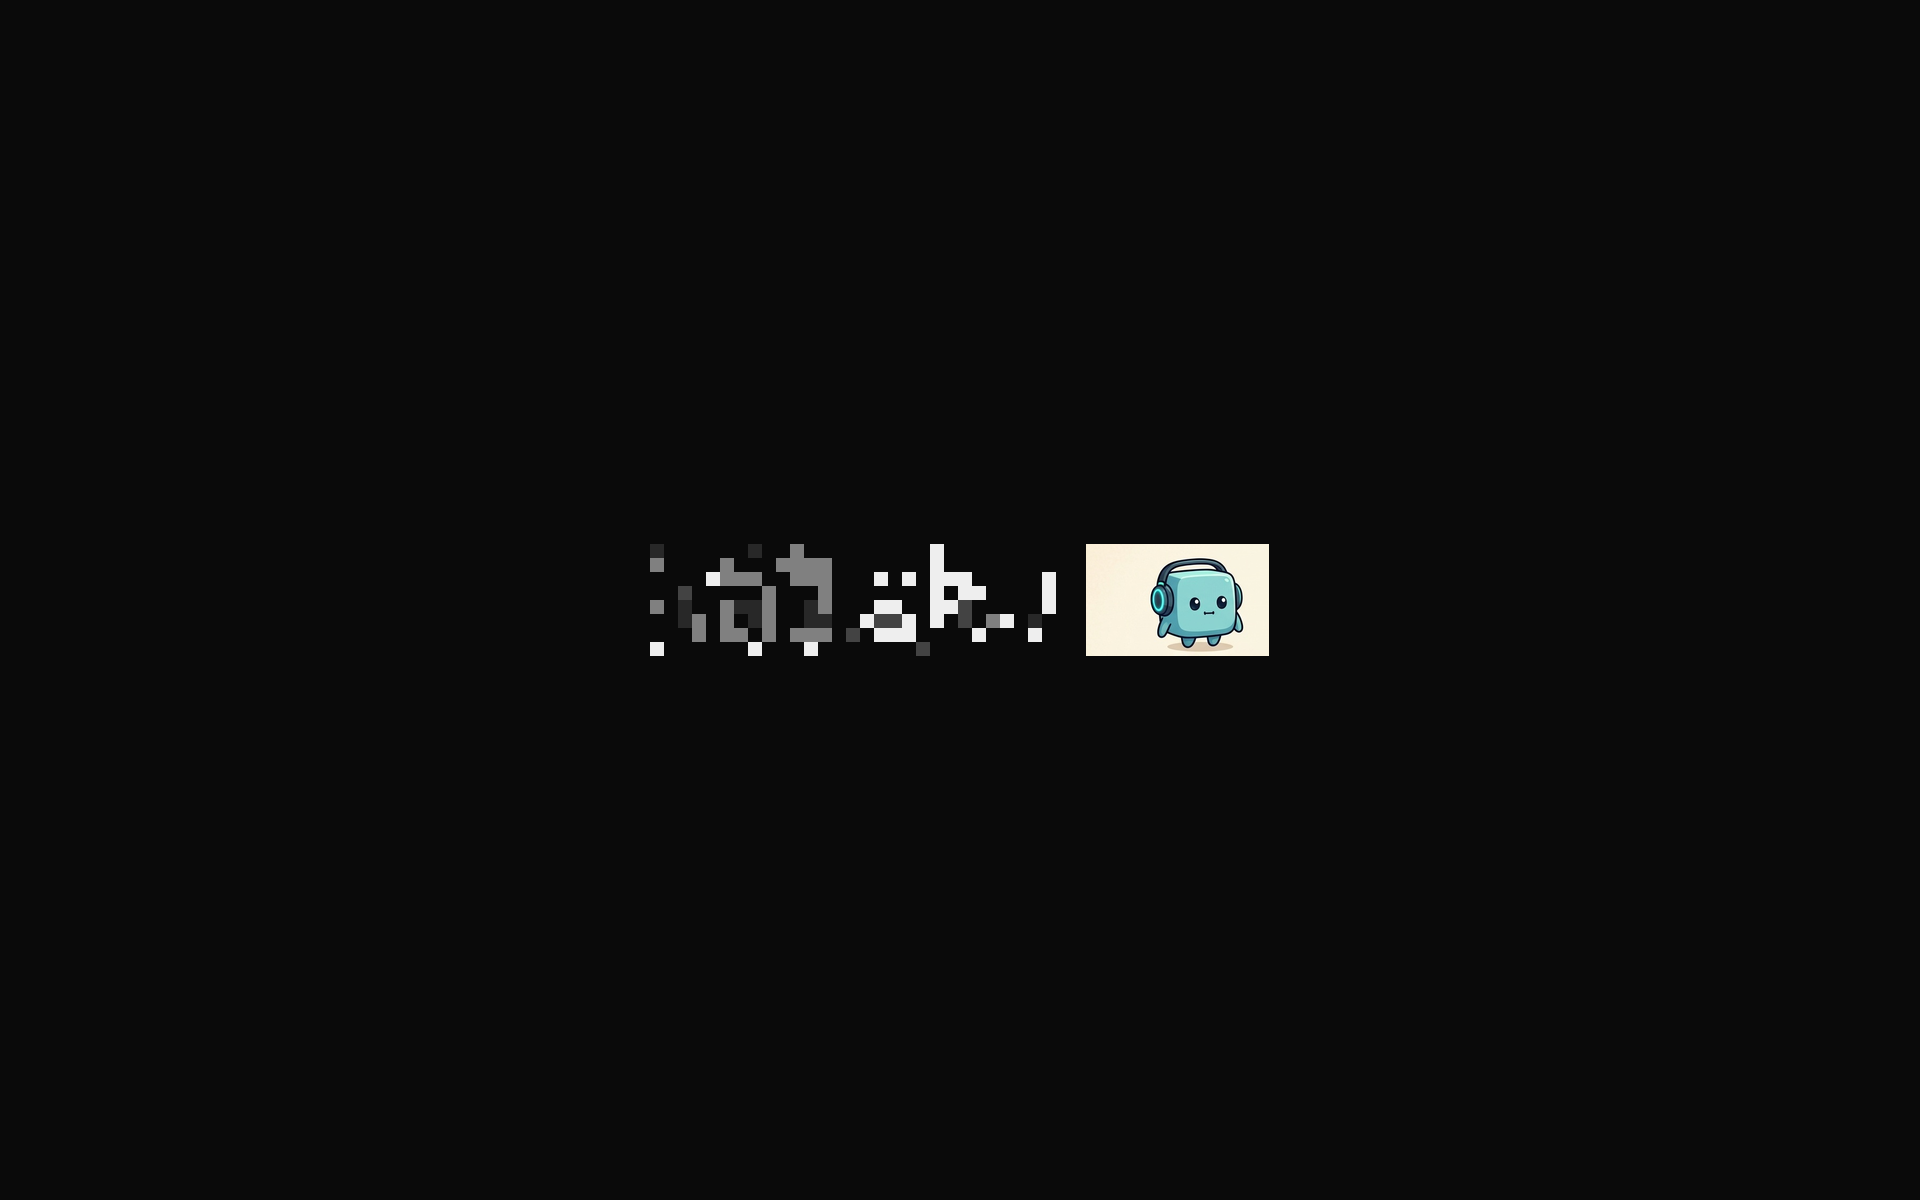
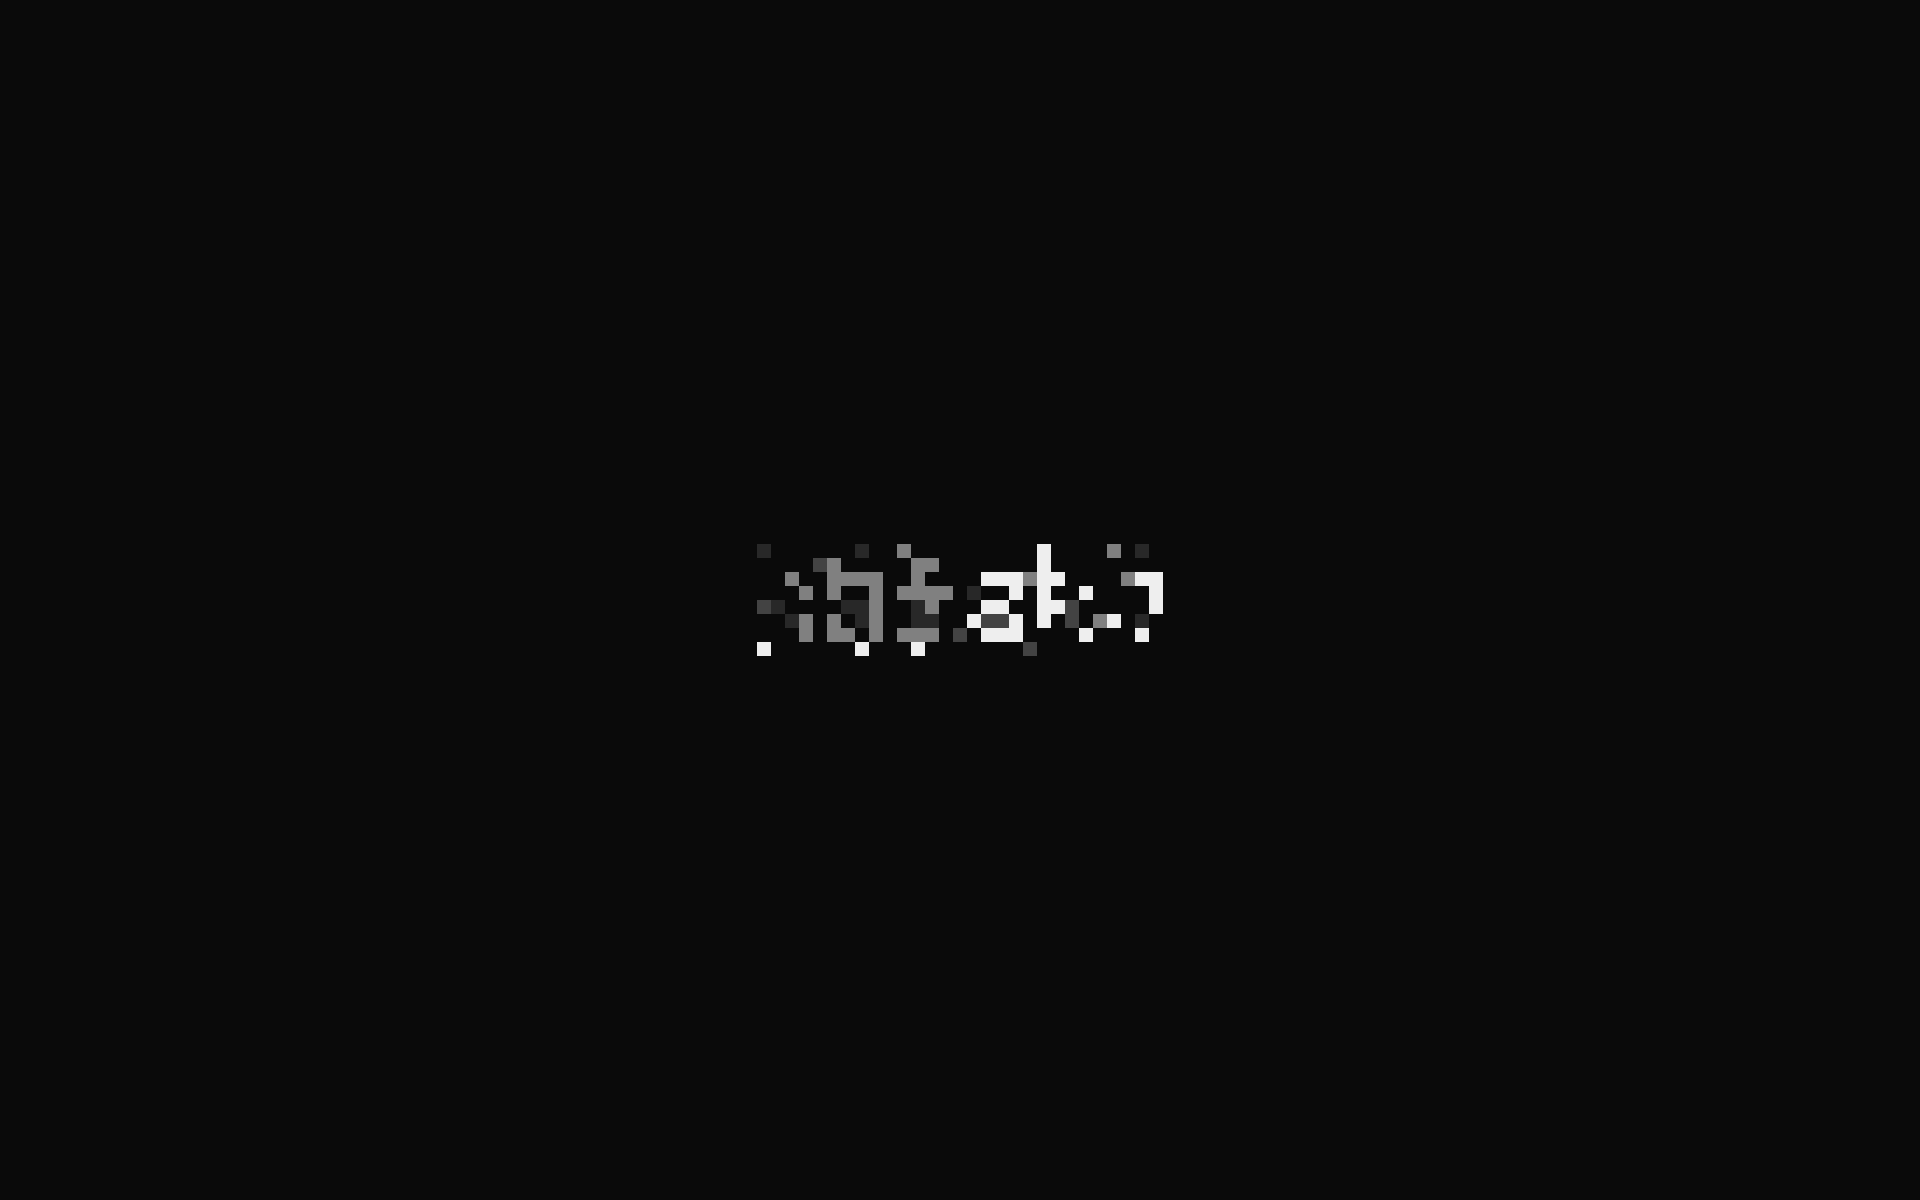
Show ONLY pixels during pixelating morph: no character during animation, designated cartoons only before and after

Changed region(s): [[0.3438, 0.4317, 0.6875, 0.555]]

diff --git a/core/pixel_morph.py b/core/pixel_morph.py
@@ -2,6 +2,12 @@
 Pixel Morph & Dissolve Engine
 Generates smooth retro pixel-dissolve / glitch transition frames between two names
 (e.g., 'hiak' <-> 'harsha') paired with reactive mascot emotion states.
+
+STRICT MASCOT DISPLAY RULE:
+- BEFORE hover: Shows HIAK with designated Orange Brick Mascot
+- WHILE PIXELATING / ANIMATING: Shows ONLY the glitching/dissolving PIXELS! NO CARTOON MASCOT AT ALL!
+- AFTER hover: Shows HARSHA with designated Option 4 Floating Cyber-Bot
+- WHILE RETURNING: Shows ONLY the glitching/dissolving PIXELS! NO CARTOON MASCOT AT ALL!
 """
 import random
 import sys
@@ -15,26 +21,34 @@ sys.path.insert(0, str(STUDIO_ROOT))
 from core.opencode_font import render_opencode_image, build_text_grid, BG, GRAY, GRAY_SHADOW, WHITE, WHITE_SHADOW
 
 MASCOTS_DIR = STUDIO_ROOT / "assets" / "mascots" / "hiak"
+BOT_DIR = STUDIO_ROOT / "assets" / "mascots" / "cyber_bot"
 WALLPAPERS_DIR = STUDIO_ROOT / "assets" / "wallpapers"
 WHATSAPP_DIR = STUDIO_ROOT / "assets" / "whatsapp"
 
 
-def composite_frame(text_img: Image.Image, mascot_img: Image.Image, canvas_size=(1920, 1080), spacing=40) -> Image.Image:
+def composite_frame(text_img: Image.Image, mascot_img: Image.Image = None, canvas_size=(1920, 1080), spacing=40) -> Image.Image:
     canvas = Image.new("RGB", canvas_size, BG)
     target_h = 144
     
-    # Scale mascot to match 144px height
-    m_ratio = target_h / mascot_img.height
-    target_w = int(mascot_img.width * m_ratio)
-    scaled_mascot = mascot_img.resize((target_w, target_h), Image.Resampling.LANCZOS)
-    
-    # Text image is scaled to 144px height (scale=18 * 8 rows = 144)
-    total_w = text_img.width + spacing + target_w
-    start_x = (canvas_size[0] - total_w) // 2
-    start_y = (canvas_size[1] - target_h) // 2
+    if mascot_img is not None:
+        # Scale mascot to match 144px height
+        m_ratio = target_h / mascot_img.height
+        target_w = int(mascot_img.width * m_ratio)
+        scaled_mascot = mascot_img.resize((target_w, target_h), Image.Resampling.LANCZOS)
+        
+        # Text image is scaled to 144px height (scale=18 * 8 rows = 144)
+        total_w = text_img.width + spacing + target_w
+        start_x = (canvas_size[0] - total_w) // 2
+        start_y = (canvas_size[1] - target_h) // 2
 
-    canvas.paste(text_img, (start_x, start_y), text_img)
-    canvas.paste(scaled_mascot, (start_x + text_img.width + spacing, start_y), scaled_mascot)
+        canvas.paste(text_img, (start_x, start_y), text_img)
+        canvas.paste(scaled_mascot, (start_x + text_img.width + spacing, start_y), scaled_mascot)
+    else:
+        # PURE PIXELS ONLY during animation - NO CARTOON MASCOT!
+        start_x = (canvas_size[0] - text_img.width) // 2
+        start_y = (canvas_size[1] - target_h) // 2
+        canvas.paste(text_img, (start_x, start_y), text_img)
+        
     return canvas
 
 
@@ -97,7 +111,7 @@ def generate_morph_text_image(text1: str, text2: str, progress: float, scale: in
                         chosen_color = color2
                     elif is_active1 and random.random() < 0.2:
                         chosen_color = color1
-                    elif random.random() < 0.08: # occasional glitch particle
+                    elif random.random() < 0.12: # glitch particle
                         chosen_color = random.choice([GRAY, WHITE, GRAY_SHADOW, WHITE_SHADOW])
                 else:
                     # Tending toward text1
@@ -105,7 +119,7 @@ def generate_morph_text_image(text1: str, text2: str, progress: float, scale: in
                         chosen_color = color1
                     elif is_active2 and random.random() < 0.2:
                         chosen_color = color2
-                    elif random.random() < 0.08:
+                    elif random.random() < 0.12: # glitch particle
                         chosen_color = random.choice([GRAY, WHITE, GRAY_SHADOW, WHITE_SHADOW])
             
             if chosen_color:
@@ -127,35 +141,36 @@ def build_hiak_harsha_morph_pack():
     """
     out_dir = WALLPAPERS_DIR / "poses_hiak_harsha_morph"
     out_dir.mkdir(parents=True, exist_ok=True)
-    
-    bot_dir = STUDIO_ROOT / "assets" / "mascots" / "cyber_bot"
 
-    # Sequence of transitions with mascot emotion pairs
-    # text1 (HIAK + Brick) -> morph glitch -> text2 (HARSHA + Option 4 Cyber-Bot) -> return
+    # Sequence:
+    # 1. BEFORE hover: Pure HIAK + Designated Orange Brick Mascot
+    # 2. WHILE PIXELATING: PURE PIXELS ONLY! No mascot!
+    # 3. AFTER hover: Pure HARSHA + Designated Option 4 Cyber-Bot!
+    # 4. WHILE RETURNING: PURE PIXELS ONLY! No mascot!
     stages = [
         # 1. Solid HIAK (Neutral Orange Brick)
         (0.0, MASCOTS_DIR / "neutral.png", "1_hiak_solid"),
         # 2. HIAK with sunglasses (Cool Orange Brick)
         (0.0, MASCOTS_DIR / "cool.png", "2_hiak_cool"),
-        # 3. Dissolve starts (Mascot thinking)
-        (0.3, MASCOTS_DIR / "thinking.png", "3_dissolve_start"),
-        # 4. Heavy glitch / particle morph
-        (0.65, MASCOTS_DIR / "excited.png", "4_glitch_midway"),
-        # 5. HARSHA emerges with Option 4 Cyber-Bot!
-        (0.9, bot_dir / "coding.png", "5_harsha_forming"),
-        # 6. Solid HARSHA + Cyber-Bot Data Stream!
-        (1.0, bot_dir / "coding.png", "6_harsha_cyber_bot_coding"),
-        # 7. Solid HARSHA + Cyber-Bot Happy ^_^ !
-        (1.0, bot_dir / "happy.png", "7_harsha_cyber_bot_happy"),
-        # 8. Dissolve back to HIAK
-        (0.5, MASCOTS_DIR / "starstruck.png", "8_morph_return"),
+        # 3. Dissolve starts: PURE PIXELS ONLY! No mascot!
+        (0.3, None, "3_dissolve_start"),
+        # 4. Heavy glitch / particle morph: PURE PIXELS ONLY! No mascot!
+        (0.65, None, "4_glitch_midway"),
+        # 5. HARSHA forming: PURE PIXELS ONLY! No mascot!
+        (0.85, None, "5_harsha_forming"),
+        # 6. Solid HARSHA + Option 4 Cyber-Bot Data Stream!
+        (1.0, BOT_DIR / "coding.png", "6_harsha_cyber_bot_coding"),
+        # 7. Solid HARSHA + Option 4 Cyber-Bot Happy ^_^ !
+        (1.0, BOT_DIR / "happy.png", "7_harsha_cyber_bot_happy"),
+        # 8. Dissolve back to HIAK: PURE PIXELS ONLY! No mascot!
+        (0.45, None, "8_morph_return"),
     ]
     
     frames_1080p = []
     frames_wa = []
     
     for idx, (prog, m_path, name) in enumerate(stages):
-        m_img = Image.open(str(m_path)).convert("RGBA")
+        m_img = Image.open(str(m_path)).convert("RGBA") if m_path else None
         
         # Render morphed text
         text_img = generate_morph_text_image("hiak", "harsha", prog, scale=18)
@@ -176,7 +191,7 @@ def build_hiak_harsha_morph_pack():
         str(gif_1080p),
         save_all=True,
         append_images=frames_1080p[1:],
-        duration=[1200, 1000, 250, 300, 350, 1200, 1000, 350],
+        duration=[1500, 1000, 160, 180, 200, 2200, 1200, 220],
         loop=0,
         optimize=True
     )
@@ -186,7 +201,7 @@ def build_hiak_harsha_morph_pack():
         str(wa_gif),
         save_all=True,
         append_images=frames_wa[1:],
-        duration=[1200, 1000, 250, 300, 350, 1200, 1000, 350],
+        duration=[1500, 1000, 160, 180, 200, 2200, 1200, 220],
         loop=0,
         optimize=True
     )

diff --git a/core/reformat_wallpapers.py b/core/reformat_wallpapers.py
@@ -1,9 +1,10 @@
 """
 Reformat Wallpaper Suite for Medium Scale & Exact 1920x1200 Center Alignment
-ONLY uses the designated cartoons:
-- HIAK: Designated Orange Brick Mascot
-- HARSHA: Designated Option 4 Floating Cyber-Bot
-NO intermediate or unrelated cartoons appear during the transition!
+STRICT MASCOT DISPLAY RULE:
+- BEFORE hover / default state: Shows HIAK with designated Orange Brick Mascot
+- WHILE ANIMATING / PIXELATING: Shows ONLY the glitching/dissolving PIXELS! NO CARTOON MASCOT AT ALL!
+- AFTER hover / HARSHA state: Shows HARSHA with designated Option 4 Floating Cyber-Bot
+- WHILE RETURNING / PIXELATING: Shows ONLY the glitching/dissolving PIXELS! NO CARTOON MASCOT AT ALL!
 """
 import sys
 from pathlib import Path
@@ -28,26 +29,33 @@ TARGET_H = 112      # Exact lockup height
 SPACING = 30        # Spacing between logo and mascot
 
 
-def composite_centered(text_img: Image.Image, mascot_img: Image.Image, canvas_w=SCREEN_W, canvas_h=SCREEN_H) -> Image.Image:
+def composite_centered(text_img: Image.Image, mascot_img: Image.Image = None, canvas_w=SCREEN_W, canvas_h=SCREEN_H) -> Image.Image:
     canvas = Image.new("RGB", (canvas_w, canvas_h), BG)
     
-    # Scale mascot to match TARGET_H (112px)
-    m_ratio = TARGET_H / mascot_img.height
-    target_w = int(mascot_img.width * m_ratio)
-    scaled_mascot = mascot_img.resize((target_w, TARGET_H), Image.Resampling.LANCZOS)
-    
-    # Calculate exact center bounding box
-    total_w = text_img.width + SPACING + target_w
-    start_x = (canvas_w - total_w) // 2
-    start_y = (canvas_h - TARGET_H) // 2
+    if mascot_img is not None:
+        # Scale mascot to match TARGET_H (112px)
+        m_ratio = TARGET_H / mascot_img.height
+        target_w = int(mascot_img.width * m_ratio)
+        scaled_mascot = mascot_img.resize((target_w, TARGET_H), Image.Resampling.LANCZOS)
+        
+        # Calculate center bounding box for text + mascot
+        total_w = text_img.width + SPACING + target_w
+        start_x = (canvas_w - total_w) // 2
+        start_y = (canvas_h - TARGET_H) // 2
 
-    canvas.paste(text_img, (start_x, start_y), text_img)
-    canvas.paste(scaled_mascot, (start_x + text_img.width + SPACING, start_y), scaled_mascot)
+        canvas.paste(text_img, (start_x, start_y), text_img)
+        canvas.paste(scaled_mascot, (start_x + text_img.width + SPACING, start_y), scaled_mascot)
+    else:
+        # PURE PIXELS ONLY during animation: NO CARTOON MASCOT SHOWN!
+        start_x = (canvas_w - text_img.width) // 2
+        start_y = (canvas_h - TARGET_H) // 2
+        canvas.paste(text_img, (start_x, start_y), text_img)
+        
     return canvas
 
 
 def reformat_all():
-    print(f"📐 Reformatting wallpapers: ONLY designated cartoons (Orange Brick for HIAK, Cyber-Bot for HARSHA)...")
+    print(f"📐 Reformatting wallpapers: Pure pixels during morph, designated cartoons ONLY before/after...")
     
     # 1. Base HIAK logo at scale 14
     hiak_logo = render_opencode_image("hiak", scale=SCALE, bg_color=None)
@@ -69,28 +77,27 @@ def reformat_all():
         wp.save(str(POSES_DIR / out_name), quality=95)
     print("  ✅ 7 HIAK desktop poses updated (1920x1200 medium centered)")
 
-    # 3. Clean Morph Sequence: ONLY the designated Orange Brick & Option 4 Cyber-Bot!
-    # No random / intermediate cartoon faces!
+    # 3. Morph Sequence:
+    # Character ONLY appears before and after hovering!
+    # During pixelating morph: mascot_img is None (PURE PIXELS ONLY!)
     MORPH_DIR.mkdir(parents=True, exist_ok=True)
     
-    # Designated mascot assets
     brick_img = Image.open(str(MASCOTS_DIR / "neutral.png")).convert("RGBA")
     cyber_bot_img = Image.open(str(BOT_DIR / "happy.png")).convert("RGBA")
 
     stages = [
-        # Stage 1: Pure HIAK + Designated Orange Brick
+        # Stage 1: BEFORE hover -> Pure HIAK + Designated Orange Brick Mascot
         (0.0, brick_img, "1_1_hiak_solid.png"),
         (0.0, brick_img, "2_2_hiak_cool.png"),
-        # Stage 2: Dissolve starts: HIAK text glitches, Orange Brick stays clean!
-        (0.3, brick_img, "3_3_dissolve_start.png"),
-        # Stage 3: Glitch midway: text morphing, Cyber-Bot takes over!
-        (0.7, cyber_bot_img, "4_4_glitch_midway.png"),
-        # Stage 4: Pure HARSHA + Designated Option 4 Cyber-Bot!
-        (1.0, cyber_bot_img, "5_5_harsha_forming.png"),
+        # Stage 2: WHILE ANIMATING -> PURE PIXELS ONLY! NO MASCOT!
+        (0.3, None, "3_3_dissolve_start.png"),
+        (0.65, None, "4_4_glitch_midway.png"),
+        (0.85, None, "5_5_harsha_forming.png"),
+        # Stage 3: AFTER hover -> Pure HARSHA + Designated Option 4 Cyber-Bot!
         (1.0, cyber_bot_img, "6_6_harsha_cyber_bot_coding.png"),
         (1.0, cyber_bot_img, "7_7_harsha_cyber_bot_happy.png"),
-        # Stage 5: Return morph: text dissolves back to HIAK with Orange Brick!
-        (0.4, brick_img, "8_8_morph_return.png"),
+        # Stage 4: WHILE RETURNING -> PURE PIXELS ONLY! NO MASCOT!
+        (0.45, None, "8_8_morph_return.png"),
     ]
     
     frames_1200p = []
@@ -103,17 +110,17 @@ def reformat_all():
     # Alias for backwards compatibility
     frames_1200p[5].save(str(MORPH_DIR / "6_6_harsha_coding.png"))
 
-    # Save animated morph GIF
+    # Save animated morph GIF for Windows Terminal background & preview
     gif_path = WALLPAPERS_DIR / "hiak_harsha_morph.gif"
     frames_1200p[0].save(
         str(gif_path),
         save_all=True,
         append_images=frames_1200p[1:],
-        duration=[1200, 1000, 180, 200, 300, 1500, 1200, 250],
+        duration=[1500, 1000, 160, 180, 200, 2200, 1200, 220],
         loop=0,
         optimize=True
     )
-    print("  ✅ Morph sequence & animated GIF updated: ONLY designated cartoons!")
+    print("  ✅ Morph sequence & animated GIF updated: PURE PIXELS ONLY during animation!")
 
 
 if __name__ == "__main__":
